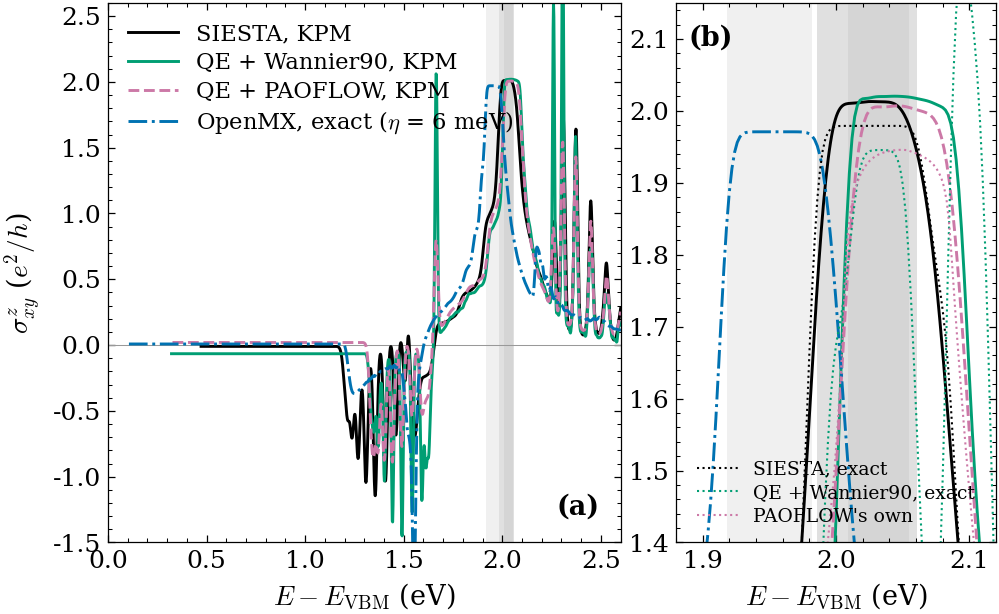
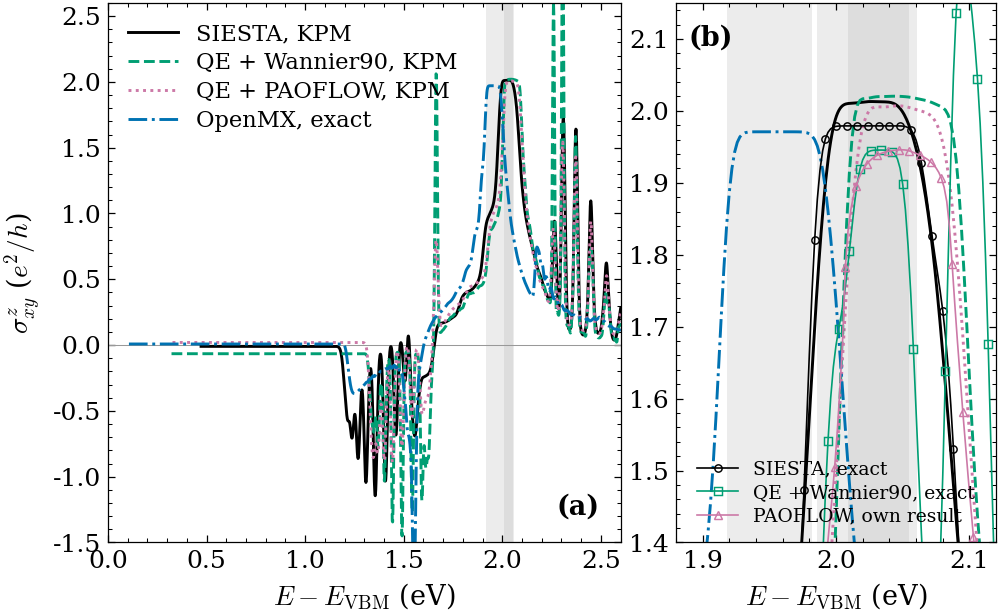
Examples 20: review fixes (caption, line styles, wording)
PAGE.md gets a full FIG. 1 caption with every curve, its parameters and the
gap of each code, a title with routes instead of codes, the 4 % agreement
and a note on the different k meshes of the two columns. Every route has its
own line style and every exact curve a marker. The README starts with the
task, says why PAOFLOW uses berry_connection and that the OpenMX KPM run was
stopped. bring-a-model.md uses the user register.

Claude-Session: https://claude.ai/code/session_01HQCNXvhvRGsiz19SM8ZrLB

diff --git a/examples/20_pdse2_spin_hall_routes/plot.py b/examples/20_pdse2_spin_hall_routes/plot.py
@@ -30,18 +30,18 @@ GAP = {"siesta": (1.986, 2.061), "qe": (2.009, 2.055), "openmx": (1.918, 1.982)}
 
 SMOOTH = [  # file, origin, label, trace index, line style
     ("siesta_projected_kpm.dat", "siesta", "SIESTA, KPM", 0, "-"),
-    ("wannier_kpm.dat", "qe", "QE + Wannier90, KPM", 3, "-"),
-    ("paoflow_kpm.dat", "paoflow", "QE + PAOFLOW, KPM", 4, "--"),
-    ("openmx_exact.dat", "openmx", "OpenMX, exact ($\\eta$ = 6 meV)", 1, "-."),
+    ("wannier_kpm.dat", "qe", "QE + Wannier90, KPM", 3, "--"),
+    ("paoflow_kpm.dat", "paoflow", "QE + PAOFLOW, KPM", 4, (0, (1, 1.5))),
+    ("openmx_exact.dat", "openmx", "OpenMX, exact", 1, "-."),
 ]
 # paoflow.dat is PAOFLOW's spin_Hall output times 4 pi: PAOFLOW gives e^2/hbar
 # with the spin operator sigma/2 (PAOFLOW.py: sP = 0.5 Pauli; do_Hall.py: sum
 # over k divided by N_k and by the cell area), and 2 pi * 2 converts it to e^2/h
 # with the Pauli sigma_z.
-EXACT = [  # exact curves, shown in the gap panel only
-    ("siesta_direct_exact.dat", "siesta", "SIESTA, exact", 0, ":"),
-    ("wannier_covariant_spn.dat", "qe", "QE + Wannier90, exact", 3, ":"),
-    ("paoflow.dat", "paoflow", "PAOFLOW's own", 4, ":"),
+EXACT = [  # exact curves, shown in the gap panel only: thin line and a marker each
+    ("siesta_direct_exact.dat", "siesta", "SIESTA, exact", 0, "o"),
+    ("wannier_covariant_spn.dat", "qe", "QE + Wannier90, exact", 3, "s"),
+    ("paoflow.dat", "paoflow", "PAOFLOW, own result", 4, "^"),
 ]
 
 
@@ -50,18 +50,19 @@ def main(data=os.path.join(_HERE, "data")):
     prl.use("web", height=4.2)
     fig, (ax1, ax2) = plt.subplots(1, 2, gridspec_kw=dict(width_ratios=[1.6, 1]))
     for ax in (ax1, ax2):
-        ax.axvspan(*GAP["siesta"], color="0.88", lw=0)
-        ax.axvspan(*GAP["qe"], color="0.80", lw=0, alpha=0.5)
-        ax.axvspan(*GAP["openmx"], color="0.94", lw=0)
+        for key in ("siesta", "qe", "openmx"):   # overlaps show darker
+            ax.axvspan(*GAP[key], color="0.6", lw=0, alpha=0.18)
         ax.axhline(0.0, color="0.6", lw=0.5)
     for f, origin, label, i, ls in SMOOTH:
         E, s = load(f)
         style = dict(prl.trace(i), linestyle=ls)
         ax1.plot(E - VBM[origin], s, label=label, **style)
         ax2.plot(E - VBM[origin], s, **style)
-    for f, origin, label, i, ls in EXACT:
+    for f, origin, label, i, marker in EXACT:
         E, s = load(f)
-        ax2.plot(E - VBM[origin], s, label=label, **dict(prl.trace(i), linestyle=ls, linewidth=1.0))
+        ax2.plot(E - VBM[origin], s, label=label, **dict(prl.trace(i), linestyle="-", linewidth=0.8,
+                                                           marker=marker, markevery=4, markersize=3.5,
+                                                           markerfacecolor="none"))
     ax1.set_xlim(0.0, 2.6)
     ax1.set_ylim(-1.5, 2.6)
     ax2.set_xlim(1.88, 2.12)

diff --git a/examples/20_pdse2_spin_hall_routes/README.md b/examples/20_pdse2_spin_hall_routes/README.md
@@ -1,9 +1,8 @@
 # Example 20: set up and run the PdSe₂ spin Hall routes
 
-This page tells you how to reproduce the spin Hall conductivity of pentagonal
-PdSe₂ from SIESTA, OpenMX, Quantum ESPRESSO + Wannier90 and Quantum ESPRESSO +
-PAOFLOW. The result and what it shows are on the
-[example page](PAGE.md).
+Reproduce the spin Hall conductivity of pentagonal PdSe₂ from SIESTA, OpenMX,
+Quantum ESPRESSO + Wannier90 and Quantum ESPRESSO + PAOFLOW. The
+[example page](PAGE.md) shows the result.
 
 The figure is made from the curves in [`data/`](data/), so you can plot it
 without running anything (step 6). Steps 1 to 5 regenerate those curves.
@@ -17,8 +16,8 @@ without running anything (step 6). Steps 1 to 5 regenerate those curves.
 - About 1 h on 32 cores for the DFT steps; see [Runtime](#runtime).
 <!-- tested with Quantum ESPRESSO 7.4, Wannier90 3.1.0, PAOFLOW 3.0.0, OpenMX 3.9.9 -->
 
-The four connectors are described in
-[Bring a model to LSQuant](../../docs/how-to/bring-a-model.md).
+[Bring a model to LSQuant](../../docs/how-to/bring-a-model.md) describes how
+to load each of these models.
 
 ## The inputs
 
@@ -27,12 +26,12 @@ The four connectors are described in
 | Files | `siesta/` of [example 8](../08_spin_hall_pdse2_monolayer/README.md) | [`openmx/pdse2.dat`](openmx/pdse2.dat) | [`qe/`](qe/), [`paoflow/`](paoflow/) |
 | Functional | PBE + SOC | PBE + SOC | PBE + SOC |
 | Pseudopotentials | PseudoDojo NC FR (psml) | DFT_DATA19 `*_PBE19` | pslibrary 1.0.0 PAW: `Pd.rel-pbe-n-kjpaw_psl.1.0.0.UPF`, `Se.rel-pbe-dn-kjpaw_psl.1.0.0.UPF` |
-| Basis | DZP | Pd7.0-s3p2d2, Se7.0-s3p2d2 | plane waves, 80 / 800 Ry |
+| Basis | DZP | Pd7.0-s3p2d2, Se7.0-s3p2d2 | plane waves, 80 Ry (wave functions), 800 Ry (charge density) |
 | Self-consistent k mesh | 12 × 12 | 12 × 12 | 4 × 4 |
 
 All three use the same cell ($a = 5.750$ Å, $b = 5.920$ Å, 16.45 Å along $z$)
 and atomic positions.
-<!-- Geometry of wannier2sparse example 05. In the QE inputs the slab sits at
+<!-- Geometry of wannier2sparse example 05. In the QE inputs the slab is at
 z = 0: at z = c/2 the Wannier functions cross the cell boundary along z and
 Wannier90 returns spreads of about 100 A^2. Wannier model: 12 spinor functions
 (Pd dx2-y2, Se pz), nscf 12x12 with 96 bands, outer window -3.5..3.0 eV, frozen
@@ -84,7 +83,8 @@ Set `DATA.PATH` in `openmx/pdse2.dat` to your DFT_DATA19 directory. In
 mpirun -np 32 openmx pdse2.dat > pdse2.std
 ```
 
-`HS.fileout on` makes OpenMX write `pdse2.scfout`.
+The input sets `HS.fileout on`, so OpenMX writes `pdse2.scfout`, the file
+LSQuant reads.
 
 ## Step 4: LSQuant
 
@@ -108,6 +108,10 @@ k mesh (`word_0_oracle.json`) to its `output.dir`.
 | `run_wannier_kpm.json` | Wannier90, spin projected from DFT | covariant | 24 × 24 | 1024 |
 | `run_paoflow_kpm.json` | PAOFLOW model | berry_connection | 24 × 24 | 1024 |
 | `run_openmx_kpm.json` | OpenMX | covariant | 24 × 24 | 1024 |
+
+The PAOFLOW model has no position matrix between its orbitals, so it cannot use
+the covariant velocity; `berry_connection` is the velocity PAOFLOW itself uses
+(see [Use a PAOFLOW model](../../docs/how-to/use-paoflow.md)).
 
 ## Step 5: the exact Wannier90 and OpenMX curves
 
@@ -143,9 +147,12 @@ On an AMD EPYC 9374F:
 | `run_siesta_projected.json` | 3 h 10 min (16 threads) | 23.3 GB |
 | `run_wannier_kpm.json` | 5 min (8 threads) | — |
 | `run_paoflow_kpm.json` | 2 h 30 min (8 threads) | — |
-| `run_openmx_kpm.json` | more than 4 h (16 threads) | — |
+| `run_openmx_kpm.json` | stopped after 4 h (16 threads) | — |
 
-The KPM runs of PAOFLOW and OpenMX are slow because the `shift` projection keeps every band of the model at each k point (108 and 228); `openmx_exact.py` gives the OpenMX curve of the figure in a fraction of that time.
+The KPM runs of PAOFLOW and OpenMX are slow: the `shift` projection keeps
+every band of the model at each k point, 108 for PAOFLOW and 228 for OpenMX.
+We stopped the OpenMX run; the OpenMX curve of the figure comes from
+`openmx_exact.py`.
 
 ## Files
 
@@ -154,7 +161,7 @@ The KPM runs of PAOFLOW and OpenMX are slow because the `shift` projection keeps
 | `qe/`, `paoflow/`, `openmx/` | DFT and PAOFLOW inputs |
 | `run_*.json` | LSQuant run files |
 | `wannier_route.py`, `openmx_exact.py` | exact curves on dense meshes |
-| `data/*.dat` | $\sigma^z_{xy}(E - E_F)$ of each route, in $e^2/h$ (Pauli $\sigma_z$) |
+| `data/*.dat` | $\sigma^z_{xy}$ of each route against $E - E_F$ of its code, in $e^2/h$ (Pauli $\sigma_z$); `plot.py` shifts them to $E - E_\mathrm{VBM}$ |
 | `plot.py` | the figure |
 
 ## References

diff --git a/examples/20_pdse2_spin_hall_routes/PAGE.md b/examples/20_pdse2_spin_hall_routes/PAGE.md
@@ -1,27 +1,43 @@
-# One quantum spin Hall plateau, four codes
+# One quantum spin Hall plateau, four routes from DFT
 
-A pentagonal PdSe₂ monolayer has a quantum spin Hall gap about 2 eV above its
-valence band. LSQuant computes the spin Hall conductivity in that gap from
-four different electronic structures: SIESTA, OpenMX, and Quantum ESPRESSO
-through Wannier90 and through PAOFLOW. All four give the same plateau.
+A pentagonal PdSe₂ monolayer is a semiconductor with a quantum spin Hall gap
+about 2 eV above its valence-band maximum, in the conduction bands; electron
+doping or gating would bring the Fermi level there. We compute the spin Hall
+conductivity in that gap from three DFT codes and four routes: SIESTA, OpenMX,
+and Quantum ESPRESSO through Wannier90 and through PAOFLOW. The plateaus agree
+within 4 %.
 
 ![Spin Hall conductivity of PdSe2 from SIESTA, OpenMX, Wannier90 and PAOFLOW](fig_routes.png)
 
-σᶻ_xy against energy from the valence-band maximum, in e²/h with the Pauli
-σ_z. (a) Kernel polynomial method (KPM) for SIESTA, Wannier90 and PAOFLOW;
-exact diagonalisation for OpenMX. (b) The quantum spin Hall gap, with the
-exact curves (dotted). Grey bands: the gap of each electronic structure.
+**FIG. 1.** σᶻ_xy of pentagonal PdSe₂ against the energy from the
+valence-band maximum, in e²/h with the Pauli σ_z. (a) Black solid line:
+SIESTA, states within ±3 eV of E_F. Green dashed line: Quantum ESPRESSO with a
+Wannier90 model. Pink dotted line: Quantum ESPRESSO with a PAOFLOW model.
+These three are KPM curves: 24 × 24 k mesh, M = 1024 moments, Jackson kernel,
+6 meV broadening. Blue dash-dotted line: OpenMX, exact diagonalisation on a
+60 × 60 mesh with a 6 meV interband regulator and a 6 meV Gaussian. (b) The
+quantum spin Hall gap, with the same curves and the exact results (thin lines
+with markers): SIESTA (circles, 24 × 24), Wannier90 (squares, 300 × 300) and
+PAOFLOW's own calculation (triangles, 120 × 120). The grey bands mark the gap
+of each electronic structure: OpenMX 1.92–1.98 eV, SIESTA 1.99–2.06 eV,
+Quantum ESPRESSO 2.01–2.06 eV.
 
-| Electronic structure | Plateau, KPM (e²/h) | Plateau, exact (e²/h) |
+| Route | Plateau, KPM (e²/h) | Plateau, exact (e²/h) |
 |---|---|---|
 | SIESTA | 2.01 | 1.98 |
 | QE + Wannier90 | 2.02 | 1.94 |
 | QE + PAOFLOW | 2.00 | 1.94 (PAOFLOW's own) |
 | OpenMX | — | 1.97 |
 
-<!-- Plateau: mean over the central half of each topological gap, from the curves in data/ (plot.py constants VBM and GAP). KPM: 24x24, 1024 moments, Jackson kernel, 6 meV. Exact: SIESTA 24x24, Wannier90 300x300, OpenMX 60x60 (24x24 gives 1.850, not converged), PAOFLOW its own spin_Hall (120x120, adaptive smearing). -->
+Only for SIESTA do the KPM and exact columns use the same k mesh; for the
+other routes the exact result uses a denser mesh, so the difference between
+the columns mixes the mesh and the KPM. The KPM run of OpenMX is not shown: it
+keeps every band of the model and takes more than 4 h, so its curve comes from
+the exact calculation.
 
-OpenMX places the gap 0.07 eV lower than the other codes, because its band
-structure differs; its plateau has the same value.
+<!-- Plateau: mean over the central half of each topological gap, from the curves in data/ (plot.py constants VBM and GAP). OpenMX on a 24x24 mesh gives 1.850, not converged; 60x60 gives 1.974 without the regulator and 1.971 with it. -->
+
+OpenMX places the gap 0.07 eV lower than SIESTA and Quantum ESPRESSO; its
+plateau, 1.97 e²/h, agrees with theirs.
 
 **Set it up and run it:** [Example 20 README](README.md).

diff --git a/docs/how-to/bring-a-model.md b/docs/how-to/bring-a-model.md
@@ -4,8 +4,7 @@ LSQuant computes transport and spectral properties of a tight-binding model.
 It does not run the electronic-structure calculation: you run SIESTA, OpenMX,
 Quantum ESPRESSO + Wannier90, PAOFLOW or a machine-learning Hamiltonian code,
 turn on the outputs LSQuant reads, and give LSQuant the result in a run file.
-The model is yours; LSQuant checks only that its files are complete and
-consistent.
+LSQuant checks only that the files are complete and consistent.
 
 Every source follows the same three steps:
 
@@ -31,11 +30,10 @@ python -m lsquant inspect run.json   # check the run file
 python -m lsquant run run.json       # compute
 ```
 
-All sources go through the same executor: the same velocity modes, spin
-operators, spectral projection, kernel polynomial method and exact check. A
-machine-learning model has no position matrix, so its velocity is `bare` or
-`berry_connection`, and a model without spin–orbit coupling has no spin
-operator. LSQuant computes transport only; the quality of a predicted
-Hamiltonian is yours to check against DFT.
-The quantities they give are listed in the
+All sources use the same velocity modes, spin operators, spectral projection
+and exact check. A machine-learning model has no position matrix, so its
+velocity is `bare` or `berry_connection`, and a model without spin–orbit
+coupling has no spin operator. LSQuant computes transport only; checking a
+predicted Hamiltonian against DFT is up to you. The quantities each source
+gives are listed in the
 [README](../../README.md#quantities-by-model-source).
